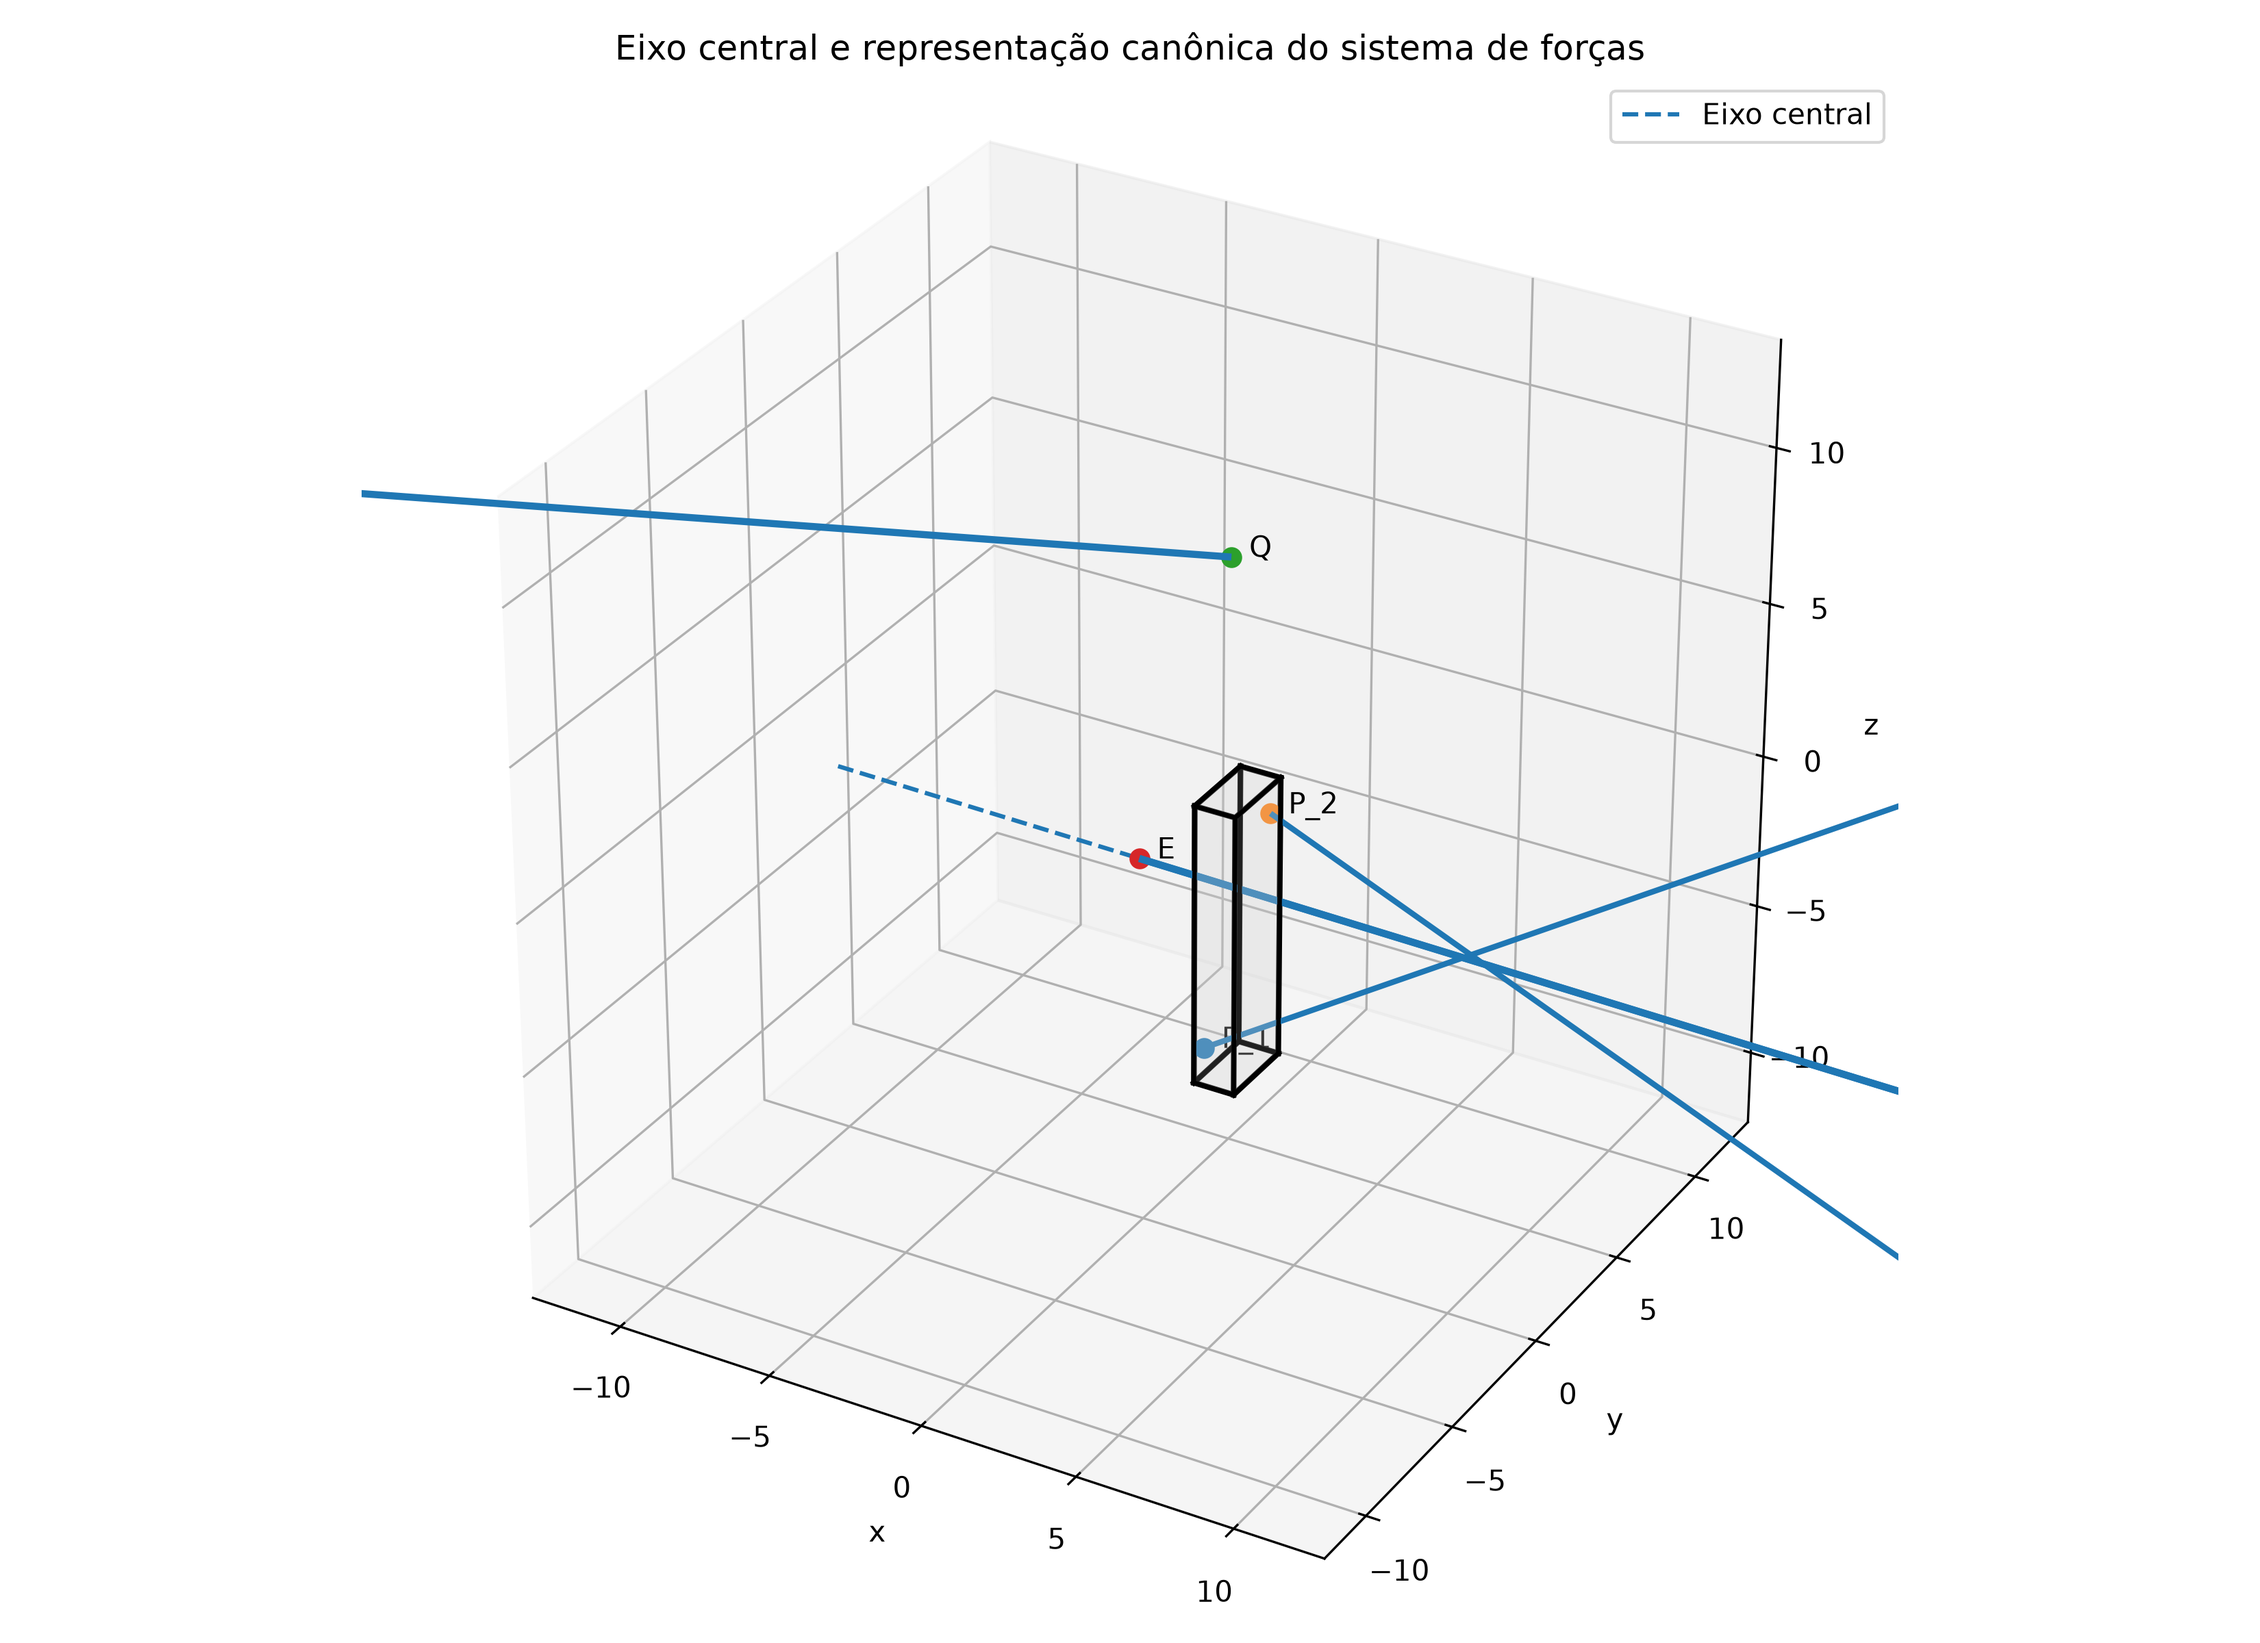
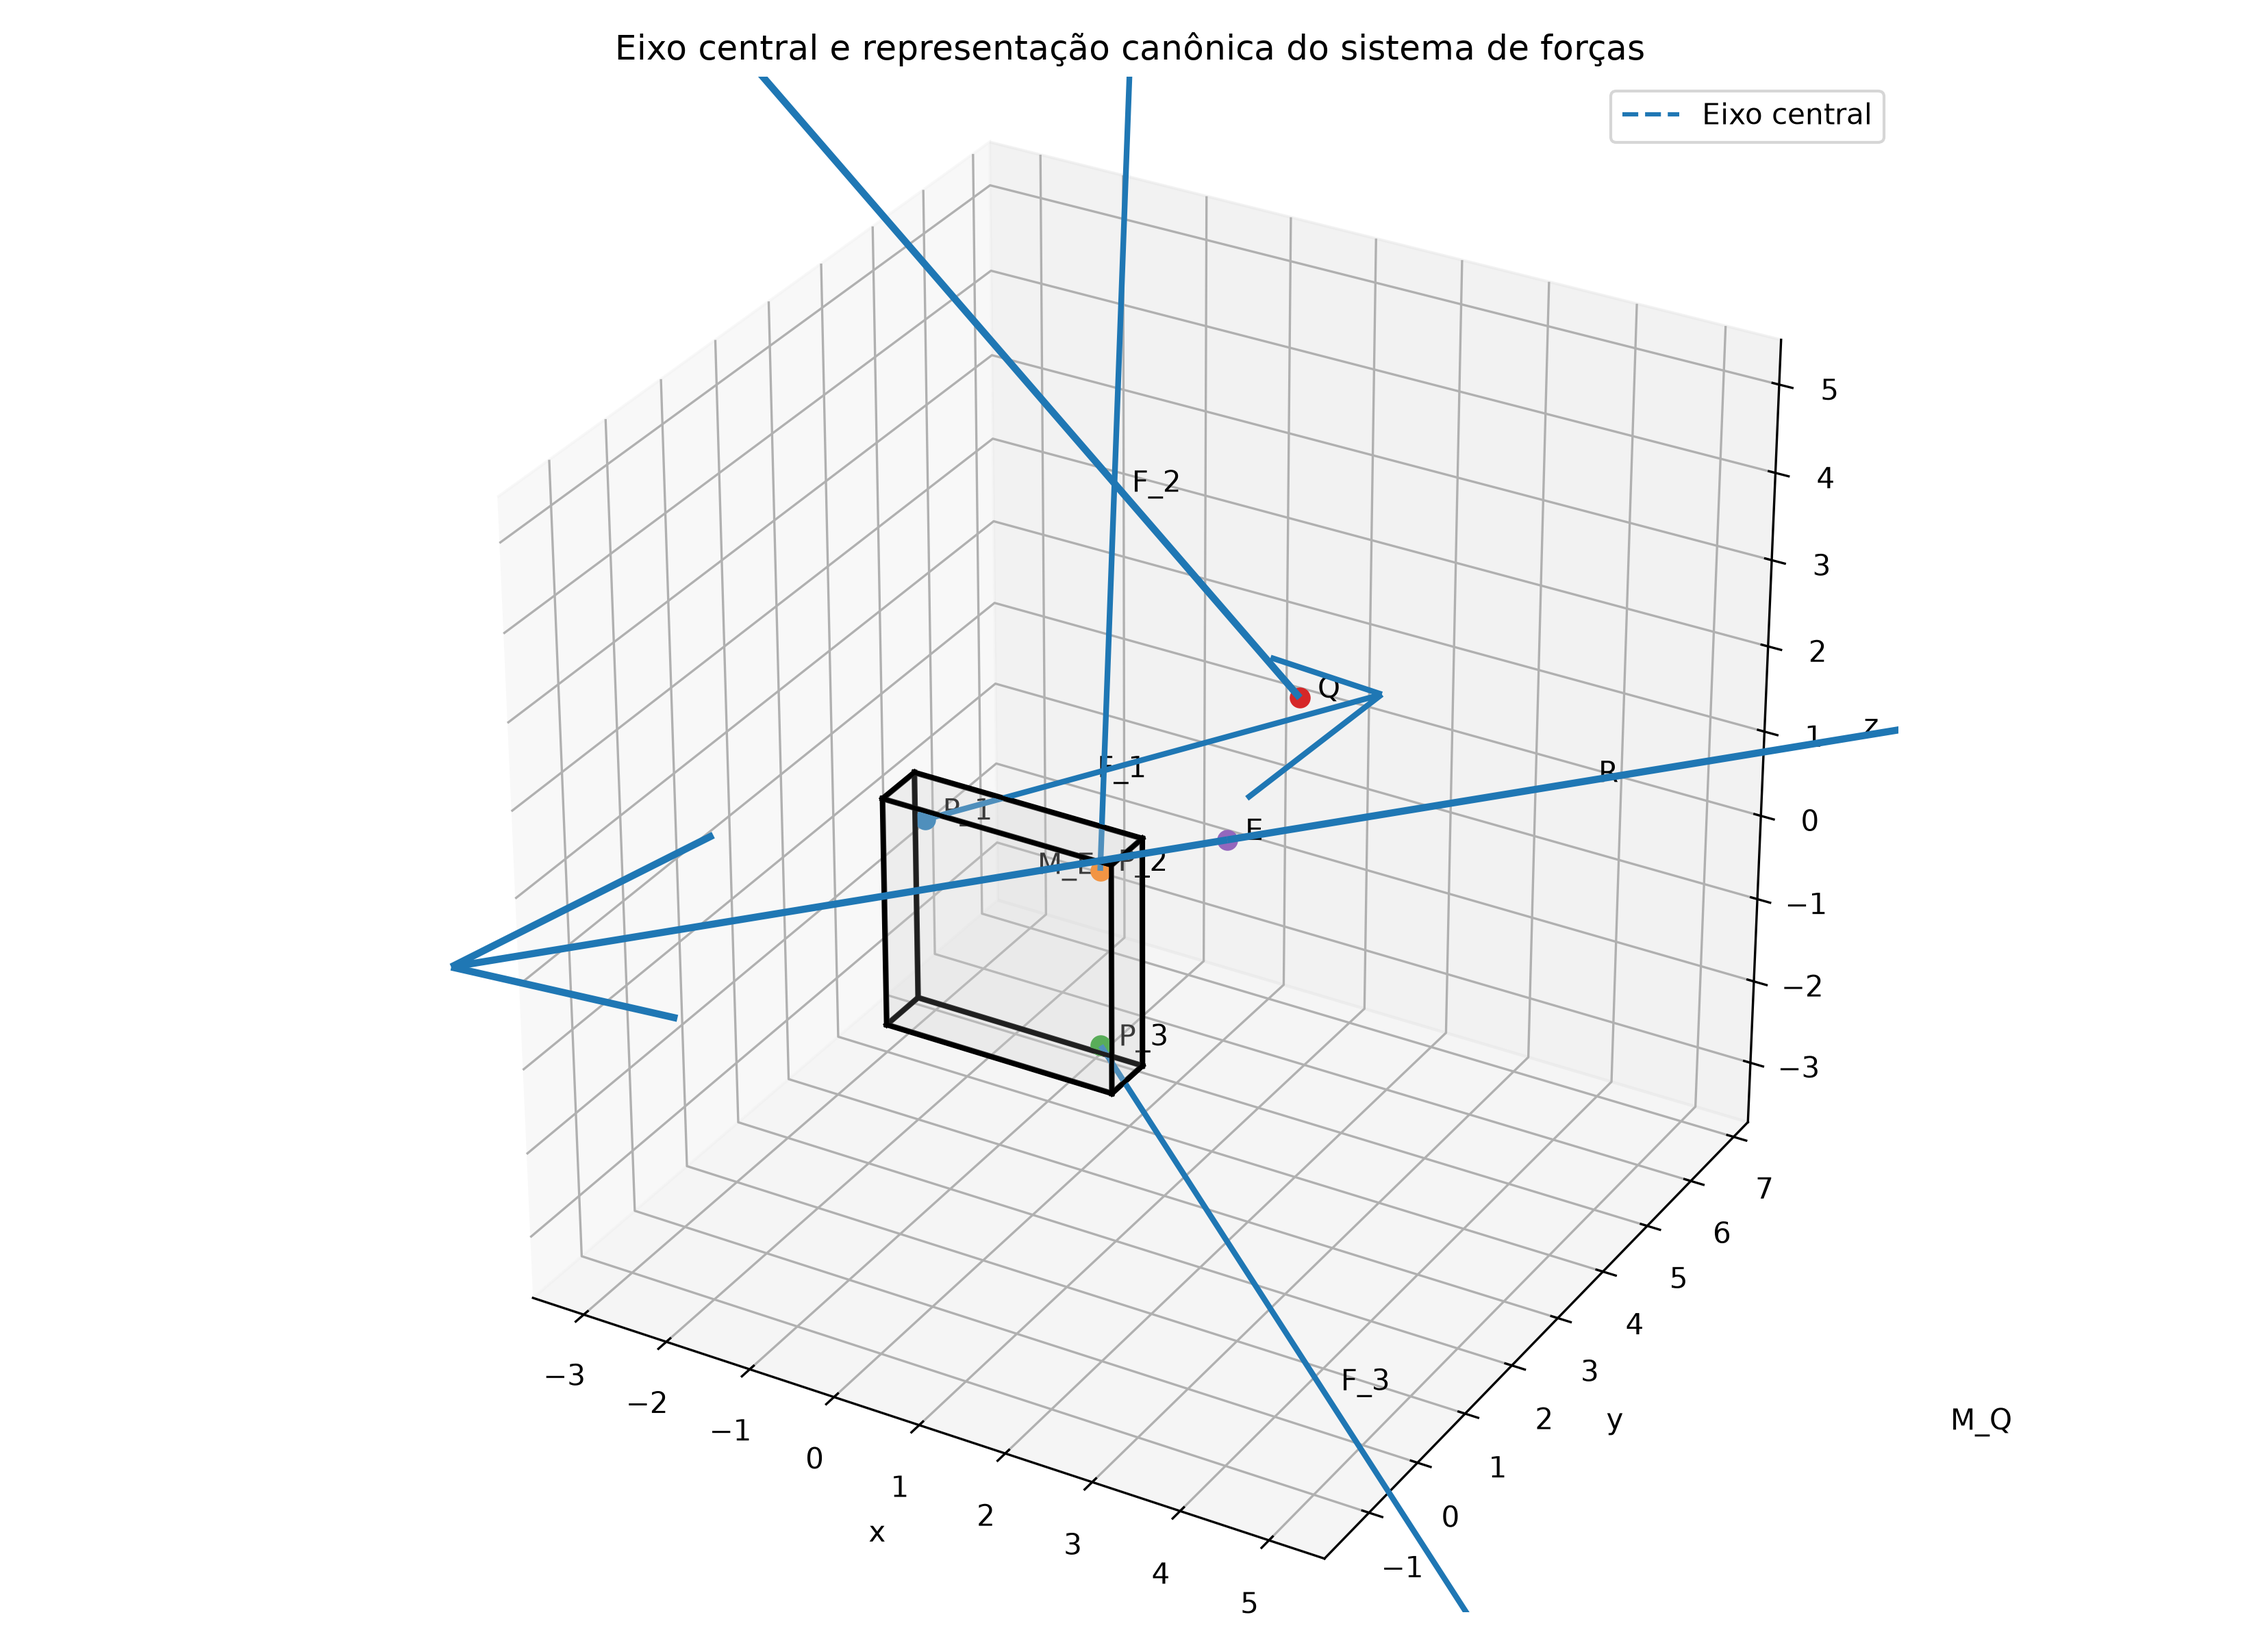
🐛 fixing some bugs in classifying system and generating the smallest body

diff --git a/EP2/moment.py b/EP2/moment.py
@@ -96,9 +96,10 @@ def desenhar_paralelepipedo(ax, pontos):
 
     # Se alguma dimensão for nula, garante-se que o corpo
     # ainda tenha uma dimensão visualmente apreciável
-    dx = max(xmax - xmin, 1.0)
-    dy = max(ymax - ymin, 1.0)
-    dz = max(zmax - zmin, 1.0)
+    dimensao_minima = 5.0
+    dx = max(xmax - xmin, dimensao_minima)
+    dy = max(ymax - ymin, dimensao_minima)
+    dz = max(zmax - zmin, dimensao_minima)
 
     # Margem ao redor dos pontos de aplicação
     margem = 0.15
@@ -329,10 +330,7 @@ else:
 
 # EIXO CENTRAL E MOMENTO MÍNIMO
 
-possui_eixo_central = (
-    not R_nulo
-    and abs(I) >= TOL
-)
+possui_eixo_central = (not R_nulo)
 
 E0 = None
 M_E = None
